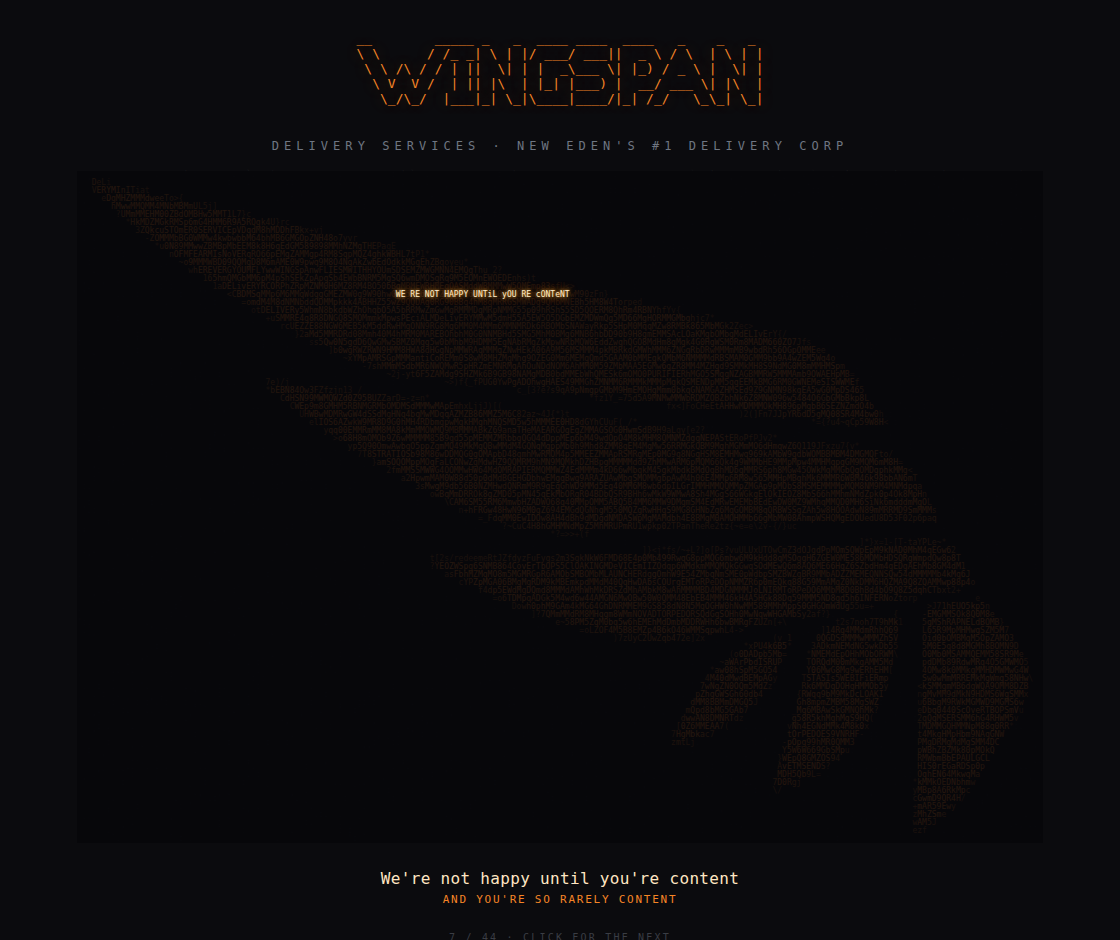
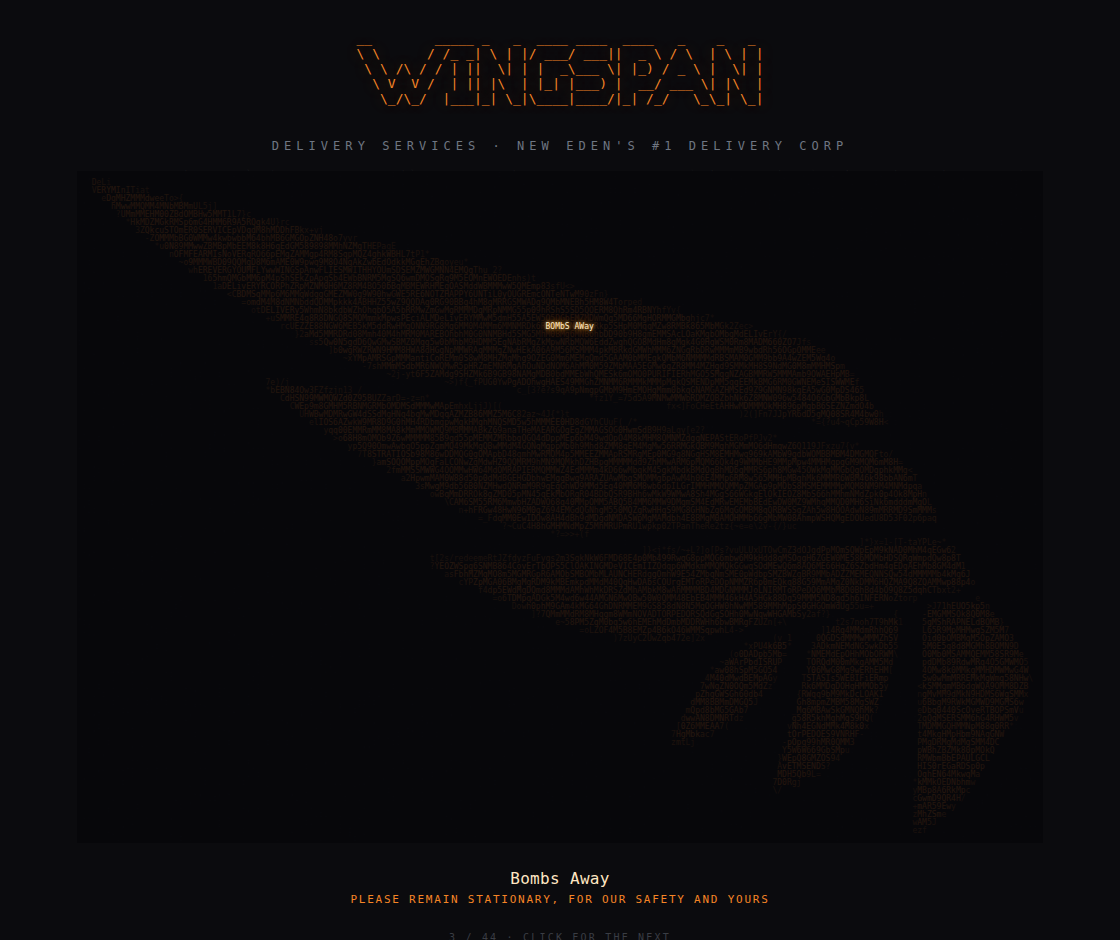
Re-voice subheadings as cheerful ordnance delivery
Play the bit straight: WINGSPAN is an upbeat courier and your destruction is a
completed delivery — customer-service patter and safety announcements ("please
remain stationary, for our safety and yours"). Paul Clavet's line is now just o7.

Changed region(s): [[0.3125, 0.9255, 0.6562, 0.9564], [0.3438, 0.3085, 0.5312, 0.3702]]

diff --git a/index.html b/index.html
@@ -160,7 +160,7 @@
   <button class="clearbtn" id="clear">Recloak</button>
 
 <script>
-  const PHRASES = [{"text": "Delivery Initiated", "tag": "your package is already in warp"}, {"text": "Customer Service V", "tag": "our one hiring requirement, non-negotiable"}, {"text": "The age of fear is over", "tag": "everyone's equally afraid now"}, {"text": "Wherever you fly, WINGSPAN flies with you", "tag": "yes, even there. especially there"}, {"text": "New Eden's #1 Delivery Corp", "tag": "ranked by tonnage of wrecks"}, {"text": "We're not happy until you're content", "tag": "and you're so rarely content"}, {"text": "Torpedo Delivery", "tag": "no signature required"}, {"text": "Special Delivery", "tag": "you didn't order this. that's the fun part"}, {"text": "Bombs Away", "tag": "please remain exactly where you are"}, {"text": "Cloak. Bomb. Deliver.", "tag": "in that order, every single time"}, {"text": "o7", "tag": "the last thing in local before the boom"}, {"text": "Manticore", "tag": "it was already behind you"}, {"text": "Hound", "tag": "you never heard it coming"}, {"text": "Purifier", "tag": "tidying up your killboard"}, {"text": "Nemesis", "tag": "yours, personally"}, {"text": "Buzzard", "tag": "it found your wormhole. it told everyone"}, {"text": "Cheetah", "tag": "gone before you finished typing 'where'"}, {"text": "Helios", "tag": "currently reading your fit"}, {"text": "Anathema", "tag": "the last blip your d-scan ever saw"}, {"text": "Astero", "tag": "small, friendly, lying to you"}, {"text": "Stratios", "tag": "an exploration ship. you're the site"}, {"text": "Falcon", "tag": "your guns don't work anymore, sorry"}, {"text": "Rapier", "tag": "you're not going anywhere"}, {"text": "Arazu", "tag": "warp? we'd really rather you didn't"}, {"text": "Pilgrim", "tag": "your capacitor belongs to us now"}, {"text": "Loki", "tag": "whatever ruins your day fastest"}, {"text": "Sin", "tag": "the bridge was open before you landed"}, {"text": "Widow", "tag": "your overview just went quiet, hm?"}, {"text": "Panther", "tag": "it jumped in just for you"}, {"text": "Redeemer", "tag": "salvation, billed to your clone"}, {"text": "Covert Ops Cloaking Device II", "tag": "can't shoot what's politely invisible"}, {"text": "Bomb Launcher", "tag": "area-of-effect customer care"}, {"text": "Scourge Torpedo", "tag": "kinetic, straight to the face"}, {"text": "Mjolnir Torpedo", "tag": "EM, for the shield-tanked optimist"}, {"text": "Inferno Torpedo", "tag": "thermal, slow-roasted"}, {"text": "Nova Torpedo", "tag": "explosive — the honest one"}, {"text": "Shrapnel Bomb", "tag": "for the whole fleet. you shouldn't have"}, {"text": "Void Bomb", "tag": "your capacitor: gone. you're welcome"}, {"text": "Warp Disruptor", "tag": "stay a while. stay forever"}, {"text": "Stasis Webifier", "tag": "you're not slow, you're just held"}, {"text": "Cloaking V", "tag": "five years of simply not being there"}, {"text": "Covert Ops V", "tag": "we skipped the tutorial too"}, {"text": "Torpedoes V", "tag": "fully delivery-certified"}, {"text": "Paul Clavet sends his regards", "tag": "you'll find him on the killmail"}];
+  const PHRASES = [{"text": "Delivery Initiated", "tag": "your package is on the way!"}, {"text": "Customer Service V", "tag": "the only certification we require — smile included"}, {"text": "The age of fear is over", "tag": "relax! we'll take it from here"}, {"text": "Wherever you fly, WINGSPAN flies with you", "tag": "complimentary escort, no opt-out"}, {"text": "New Eden's #1 Delivery Corp", "tag": "five stars, rated by us"}, {"text": "We're not happy until you're content", "tag": "satisfaction guaranteed — mostly ours"}, {"text": "Torpedo Delivery", "tag": "no signature required"}, {"text": "Special Delivery", "tag": "a little something we picked just for you"}, {"text": "Bombs Away", "tag": "please remain stationary, for our safety and yours"}, {"text": "Cloak. Bomb. Deliver.", "tag": "our three-step satisfaction process"}, {"text": "o7", "tag": "thank you for choosing WINGSPAN"}, {"text": "Manticore", "tag": "your friendly neighborhood courier"}, {"text": "Hound", "tag": "express delivery, no doorbell required"}, {"text": "Purifier", "tag": "complimentary killboard cleanup"}, {"text": "Nemesis", "tag": "handling your order personally"}, {"text": "Buzzard", "tag": "locating your delivery address now"}, {"text": "Cheetah", "tag": "good news — we're already in the area!"}, {"text": "Helios", "tag": "just confirming your shipping details"}, {"text": "Anathema", "tag": "your courier has arrived (quietly)"}, {"text": "Astero", "tag": "small, friendly, fully insured (we are)"}, {"text": "Stratios", "tag": "here to explore your fitting options"}, {"text": "Falcon", "tag": "for your convenience, your weapons are now offline"}, {"text": "Rapier", "tag": "please hold still — delivery in progress"}, {"text": "Arazu", "tag": "kindly remain at your current location"}, {"text": "Pilgrim", "tag": "we'll take that excess capacitor off your hands"}, {"text": "Loki", "tag": "whatever your delivery requires"}, {"text": "Sin", "tag": "the bridge is open — step right up"}, {"text": "Widow", "tag": "we've muted your notifications for you"}, {"text": "Panther", "tag": "we made a special trip, just for this"}, {"text": "Redeemer", "tag": "salvation, billed to your clone"}, {"text": "Covert Ops Cloaking Device II", "tag": "discreet, unmarked delivery vehicle"}, {"text": "Bomb Launcher", "tag": "now serving your entire fleet"}, {"text": "Scourge Torpedo", "tag": "kinetic, gift-wrapped"}, {"text": "Mjolnir Torpedo", "tag": "EM, for our shield-tanked customers"}, {"text": "Inferno Torpedo", "tag": "thermal, served warm"}, {"text": "Nova Torpedo", "tag": "explosive — the house special"}, {"text": "Shrapnel Bomb", "tag": "one for you and everyone you brought"}, {"text": "Void Bomb", "tag": "your capacitor: gone. you're welcome"}, {"text": "Warp Disruptor", "tag": "please don't leave before your delivery arrives"}, {"text": "Stasis Webifier", "tag": "for your safety, we've reduced your speed"}, {"text": "Cloaking V", "tag": "certified discreet handling"}, {"text": "Covert Ops V", "tag": "fully trained, fully invisible"}, {"text": "Torpedoes V", "tag": "delivery certification, maxed"}, {"text": "Paul Clavet sends his regards", "tag": "o7"}];
   const HOLD = 14000;
   const stage = document.getElementById('stage');
   const art = document.getElementById('art');

diff --git a/phrases.py b/phrases.py
@@ -4,63 +4,64 @@
 # so the glow reads as words). `tag` is the small caption line beneath it.
 #
 # Mix of: stealthy/cloak-capable EVE ships WINGSPAN flies, torpedo/bomb modules
-# & ammo, covert-ops skills, and WINGSPAN / New Eden catchphrases. The tags are
-# in WINGSPAN's customer-service-with-a-warhead house voice.
+# & ammo, covert-ops skills, and WINGSPAN / New Eden catchphrases. The tags play
+# the role straight: WINGSPAN is a cheerful courier that delivers ordnance, and
+# your destruction is simply a successfully completed delivery.
 
 PHRASES = [
     # --- WINGSPAN / New Eden catchphrases ---
-    ("Delivery Initiated",                 "your package is already in warp"),
-    ("Customer Service V",                 "our one hiring requirement, non-negotiable"),
-    ("The age of fear is over",            "everyone's equally afraid now"),
-    ("Wherever you fly, WINGSPAN flies with you", "yes, even there. especially there"),
-    ("New Eden's #1 Delivery Corp",        "ranked by tonnage of wrecks"),
-    ("We're not happy until you're content", "and you're so rarely content"),
+    ("Delivery Initiated",                 "your package is on the way!"),
+    ("Customer Service V",                 "the only certification we require — smile included"),
+    ("The age of fear is over",            "relax! we'll take it from here"),
+    ("Wherever you fly, WINGSPAN flies with you", "complimentary escort, no opt-out"),
+    ("New Eden's #1 Delivery Corp",        "five stars, rated by us"),
+    ("We're not happy until you're content", "satisfaction guaranteed — mostly ours"),
     ("Torpedo Delivery",                   "no signature required"),
-    ("Special Delivery",                   "you didn't order this. that's the fun part"),
-    ("Bombs Away",                         "please remain exactly where you are"),
-    ("Cloak. Bomb. Deliver.",              "in that order, every single time"),
-    ("o7",                                 "the last thing in local before the boom"),
+    ("Special Delivery",                   "a little something we picked just for you"),
+    ("Bombs Away",                         "please remain stationary, for our safety and yours"),
+    ("Cloak. Bomb. Deliver.",              "our three-step satisfaction process"),
+    ("o7",                                 "thank you for choosing WINGSPAN"),
 
     # --- Stealth bombers (the WINGSPAN workhorses) ---
-    ("Manticore",                          "it was already behind you"),
-    ("Hound",                              "you never heard it coming"),
-    ("Purifier",                           "tidying up your killboard"),
-    ("Nemesis",                            "yours, personally"),
+    ("Manticore",                          "your friendly neighborhood courier"),
+    ("Hound",                              "express delivery, no doorbell required"),
+    ("Purifier",                           "complimentary killboard cleanup"),
+    ("Nemesis",                            "handling your order personally"),
 
     # --- Covert ops & recon (cloak-capable) ---
-    ("Buzzard",                            "it found your wormhole. it told everyone"),
-    ("Cheetah",                            "gone before you finished typing 'where'"),
-    ("Helios",                             "currently reading your fit"),
-    ("Anathema",                           "the last blip your d-scan ever saw"),
-    ("Astero",                             "small, friendly, lying to you"),
-    ("Stratios",                           "an exploration ship. you're the site"),
-    ("Falcon",                             "your guns don't work anymore, sorry"),
-    ("Rapier",                             "you're not going anywhere"),
-    ("Arazu",                              "warp? we'd really rather you didn't"),
-    ("Pilgrim",                            "your capacitor belongs to us now"),
-    ("Loki",                               "whatever ruins your day fastest"),
-    ("Sin",                                "the bridge was open before you landed"),
-    ("Widow",                              "your overview just went quiet, hm?"),
-    ("Panther",                            "it jumped in just for you"),
+    ("Buzzard",                            "locating your delivery address now"),
+    ("Cheetah",                            "good news — we're already in the area!"),
+    ("Helios",                             "just confirming your shipping details"),
+    ("Anathema",                           "your courier has arrived (quietly)"),
+    ("Astero",                             "small, friendly, fully insured (we are)"),
+    ("Stratios",                           "here to explore your fitting options"),
+    ("Falcon",                             "for your convenience, your weapons are now offline"),
+    ("Rapier",                             "please hold still — delivery in progress"),
+    ("Arazu",                              "kindly remain at your current location"),
+    ("Pilgrim",                            "we'll take that excess capacitor off your hands"),
+    ("Loki",                               "whatever your delivery requires"),
+    ("Sin",                                "the bridge is open — step right up"),
+    ("Widow",                              "we've muted your notifications for you"),
+    ("Panther",                            "we made a special trip, just for this"),
     ("Redeemer",                           "salvation, billed to your clone"),
 
     # --- Modules / ammo / bombs ---
-    ("Covert Ops Cloaking Device II",      "can't shoot what's politely invisible"),
-    ("Bomb Launcher",                      "area-of-effect customer care"),
-    ("Scourge Torpedo",                    "kinetic, straight to the face"),
-    ("Mjolnir Torpedo",                    "EM, for the shield-tanked optimist"),
-    ("Inferno Torpedo",                    "thermal, slow-roasted"),
-    ("Nova Torpedo",                       "explosive — the honest one"),
-    ("Shrapnel Bomb",                      "for the whole fleet. you shouldn't have"),
+    ("Covert Ops Cloaking Device II",      "discreet, unmarked delivery vehicle"),
+    ("Bomb Launcher",                      "now serving your entire fleet"),
+    ("Scourge Torpedo",                    "kinetic, gift-wrapped"),
+    ("Mjolnir Torpedo",                    "EM, for our shield-tanked customers"),
+    ("Inferno Torpedo",                    "thermal, served warm"),
+    ("Nova Torpedo",                       "explosive — the house special"),
+    ("Shrapnel Bomb",                      "one for you and everyone you brought"),
     ("Void Bomb",                          "your capacitor: gone. you're welcome"),
-    ("Warp Disruptor",                     "stay a while. stay forever"),
-    ("Stasis Webifier",                    "you're not slow, you're just held"),
+    ("Warp Disruptor",                     "please don't leave before your delivery arrives"),
+    ("Stasis Webifier",                    "for your safety, we've reduced your speed"),
 
     # --- Covert-ops skills (WINGSPAN flight school) ---
-    ("Cloaking V",                         "five years of simply not being there"),
-    ("Covert Ops V",                       "we skipped the tutorial too"),
-    ("Torpedoes V",                        "fully delivery-certified"),
+    ("Cloaking V",                         "certified discreet handling"),
+    ("Covert Ops V",                       "fully trained, fully invisible"),
+    ("Torpedoes V",                        "delivery certification, maxed"),
 
     # --- and a regard ---
-    ("Paul Clavet sends his regards",      "you'll find him on the killmail"),
+    ("Paul Clavet sends his regards",      "o7"),
 ]